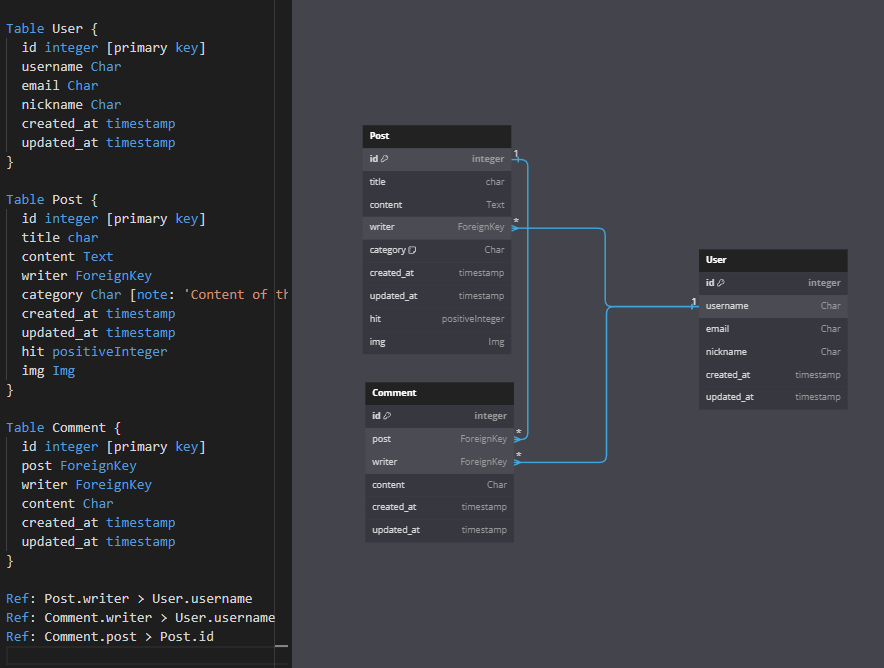
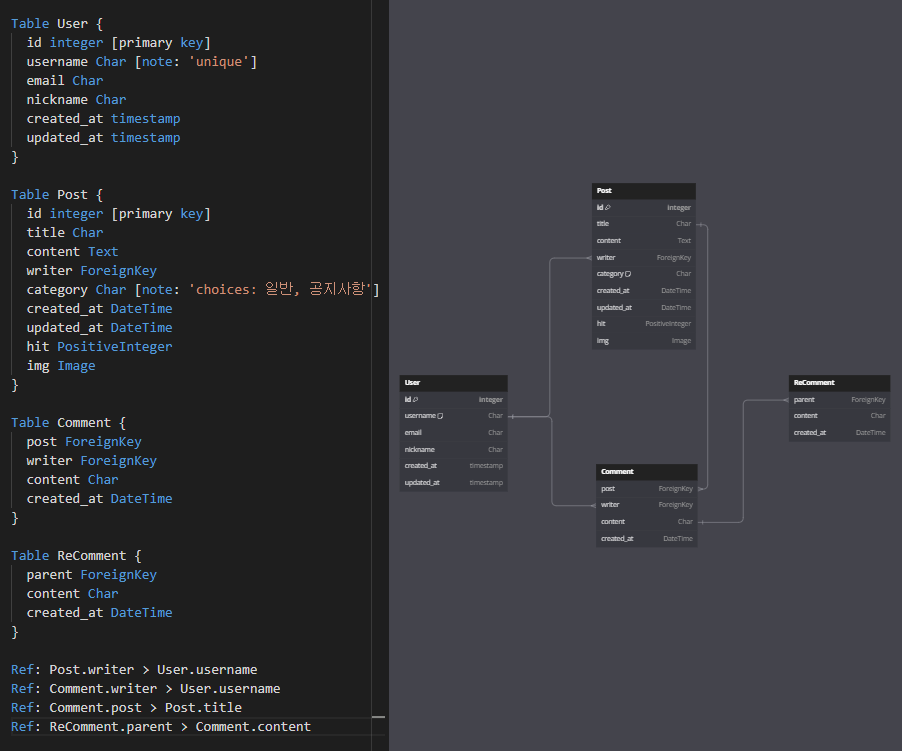
README update

diff --git a/README.md b/README.md
@@ -1,16 +1,19 @@
 # Django-blog
 Django learning with blog
 
+
 ## 1. 목적
-- 요구사항 모두 구현해보기
-    - ~~0 단계~~
-    - ~~1 단계~~
-    - ~~2 단계~~
-    - 3 단계
-        - ~~프로필 추가 및 수정~~
-        - ~~댓글 기능(Create, Delete, Re Comments)~~
-        - 배포(AWS Lightsail, nginx, uwsgi, gunicorn)
-    - django-bootstrap5로 Templates적용
+- 간단한 블로그
+    - 회원가입, 로그인, 로그아웃
+        - 회원정보 수정, 비밀번호 변경
+    - 게시글 CRUD 기능
+        - 인증(Authorization)
+            - 본인 작성 게시판, 댓글만 수정 및 삭제 가능
+        - 간단한 조회수 기능
+        - 이미지 로드
+        - 댓글, 대댓글 CRD
+    - AWS Lightsail로 배포
+
 
 ## 2. 개발환경
 
@@ -20,46 +23,65 @@ Django learning with blog
 
 그 외 자세한 버전은 requirements.txt를 참고 부탁드리겠습니다.
 
-## 3. 폴더 트리
+
+## 3. 배포환경
+
+- AWS Lightsail(ubuntu 22.04 LTS)
+    - Nginx 1.18.0
+    - uWSGI 2.0.21
+
+- [배포사이트](http://3.39.109.55)
+    - 아직 도메인주소를 구매하지 않아, 포트번호로 되어 있습니다.
+
+
+## 4. 폴더 트리
 ```
-├─.vscode
-├─accounts
-│  ├─migrations
-│  │  └─__pycache__
-│  ├─templates
-│  │  └─accounts
-│  └─__pycache__
-├─blog
-│  └─__pycache__
-├─media
-├─posts
-│  ├─migrations
-│  │  └─__pycache__
-│  ├─templates
-│  │  └─posts
-│  └─__pycache__
-├─static
-│  ├─css
-│  └─img
-├─staticfiles
-│  └─admin
-│      ├─css
-│      │  └─vendor
-│      │      └─select2
-│      ├─img
-│      │  └─gis
-│      └─js
-│          ├─admin
-│          └─vendor
-│              ├─jquery
-│              ├─select2
-│              │  └─i18n
-│              └─xregexp
-├─templates
-└─venv
+.
+├── 8000
+├── README.md
+├── accounts
+│   ├── migrations
+│   ├── models.py
+│   ├── static
+│   └── templates
+├── asset
+├── blog
+├── db.sqlite3
+├── manage.py
+├── media
+├── posts
+│   ├── migrations
+│   ├── static
+│   └── templates
+├── requirements.txt
+├── static
+│   ├── admin
+│   │   ├── css
+│   │   ├── img
+│   │   └── js
+│   ├── assets
+│   ├── css
+│   ├── images
+│   └── img
+├── staticfile
+│   ├── admin
+│   │   ├── css
+│   │   ├── img
+│   │   └── js
+│   ├── assets
+│   ├── css
+│   ├── images
+│   └── img
+├── staticfiles
+│   └── admin
+│       ├── css
+│       ├── img
+│       └── js
+├── templates
+└── venv
 ```
 
-## 4. ERD
+## 5. ERD
 ![ERD](/asset/ERD.png)
 
 - Post
@@ -99,9 +121,13 @@ Django learning with blog
     - updated_at : (auto_now=True)
 
 - Comment
+    - post, writer : ForeignKey
+
+- ReComment
+    - parent : ForeignKey
 
 
-## 5. 구현
+## 6. 구현
 
 1. 블로그 메인 화면
     ![settings](/asset/1.png)
@@ -124,7 +150,7 @@ Django learning with blog
 7. 게시글 상세 페이지
     ![settings](/asset/7.png)
 
-## 6. 개선사항
+## 7. 개선사항
 - ~~댓글 작성(대댓글)~~
     - 꾸며주기(게시판 간격 등)
     - ~~blog:list에서 post당 댓글 갯수 표시해주기~~
